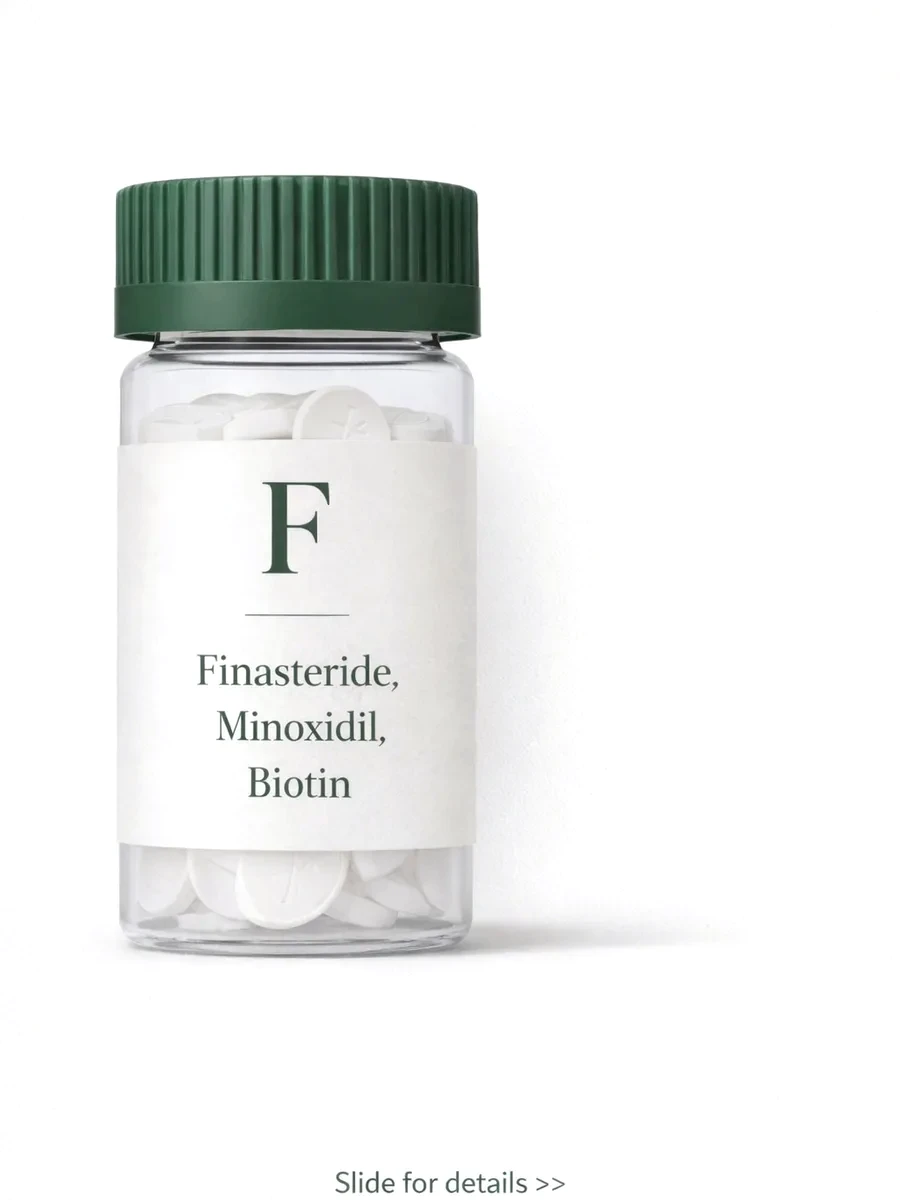
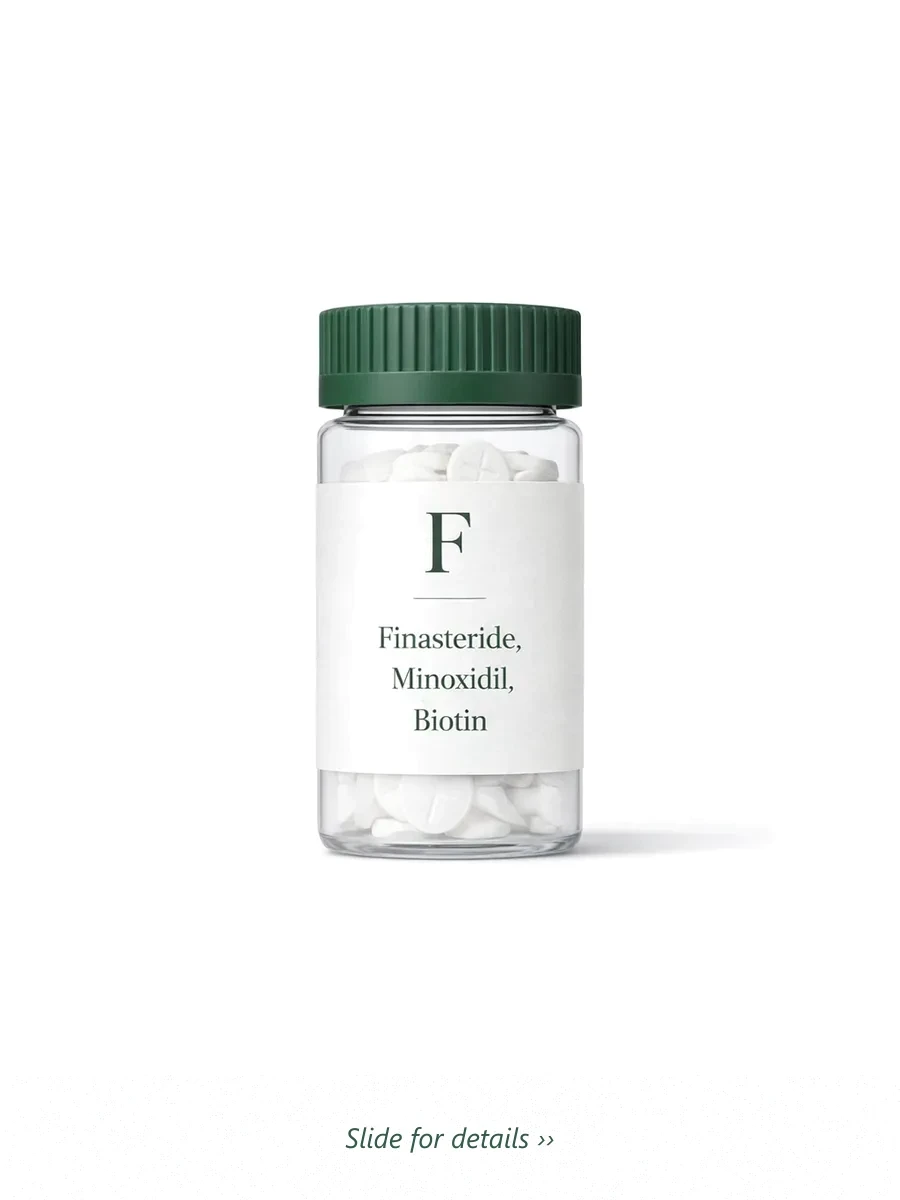
fix: diagonal longevity hero vials, per-product What's Included slides, cedar zoom-out

Changed region(s): [[0.1244, 0.1233, 0.7467, 0.8017], [0.3733, 0.925, 0.6222, 1.0]]

diff --git a/public/assets/js/hl-script.js b/public/assets/js/hl-script.js
@@ -200,7 +200,7 @@ updateProductCarousel(0);
             // Brello-style slides — see cedar's comment above.
             images: [
                 "/assets/hl/slide-price-ivy.webp",
-                "/assets/hl/slide-included.webp",
+                "/assets/hl/slide-included-ivy.webp",
                 "/assets/hl/slide-timeline.webp",
                 "/assets/hl/slide-shipping.webp",
                 "/assets/shared/slide-journey.webp",
@@ -233,7 +233,7 @@ updateProductCarousel(0);
             // Brello-style slides — see cedar's comment above.
             images: [
                 "/assets/hl/slide-price-willow.webp",
-                "/assets/hl/slide-included.webp",
+                "/assets/hl/slide-included-willow.webp",
                 "/assets/hl/slide-timeline.webp",
                 "/assets/hl/slide-shipping.webp",
                 "/assets/shared/slide-journey.webp",

diff --git a/public/assets/js/longevity.js b/public/assets/js/longevity.js
@@ -54,7 +54,7 @@
             // Brello-style slides — see sermorelin's comment above.
             images: [
                 "/assets/l/slide-price-nad.webp",
-                "/assets/l/slide-included.webp",
+                "/assets/l/slide-included-nad.webp",
                 "/assets/l/slide-benefits.webp",
                 "/assets/shared/slide-journey.webp",
                 "/assets/shared/slide-hub.webp"
@@ -79,7 +79,7 @@
             // Brello-style slides — see sermorelin's comment above.
             images: [
                 "/assets/l/slide-price-glutathione.webp",
-                "/assets/l/slide-included.webp",
+                "/assets/l/slide-included-glutathione.webp",
                 "/assets/l/slide-benefits.webp",
                 "/assets/shared/slide-journey.webp",
                 "/assets/shared/slide-hub.webp"
